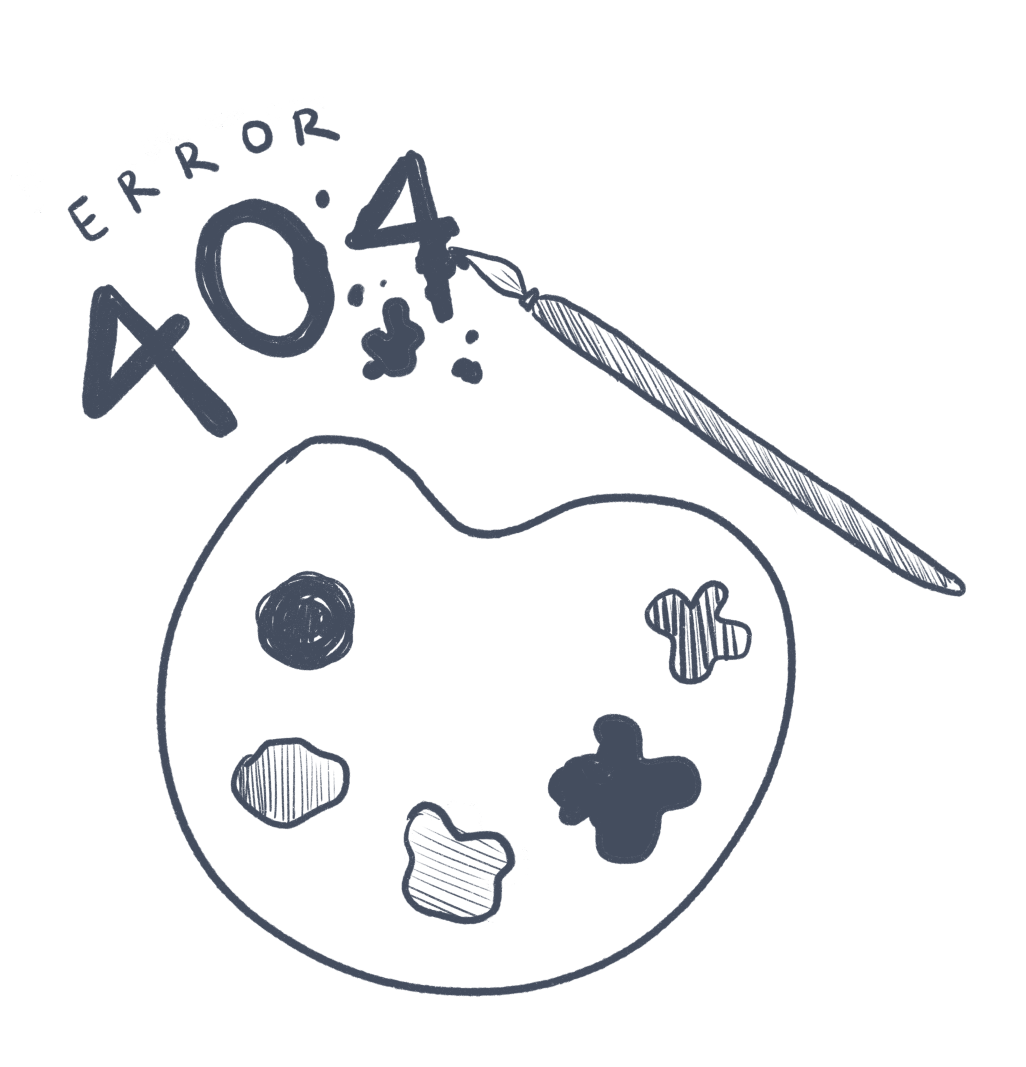
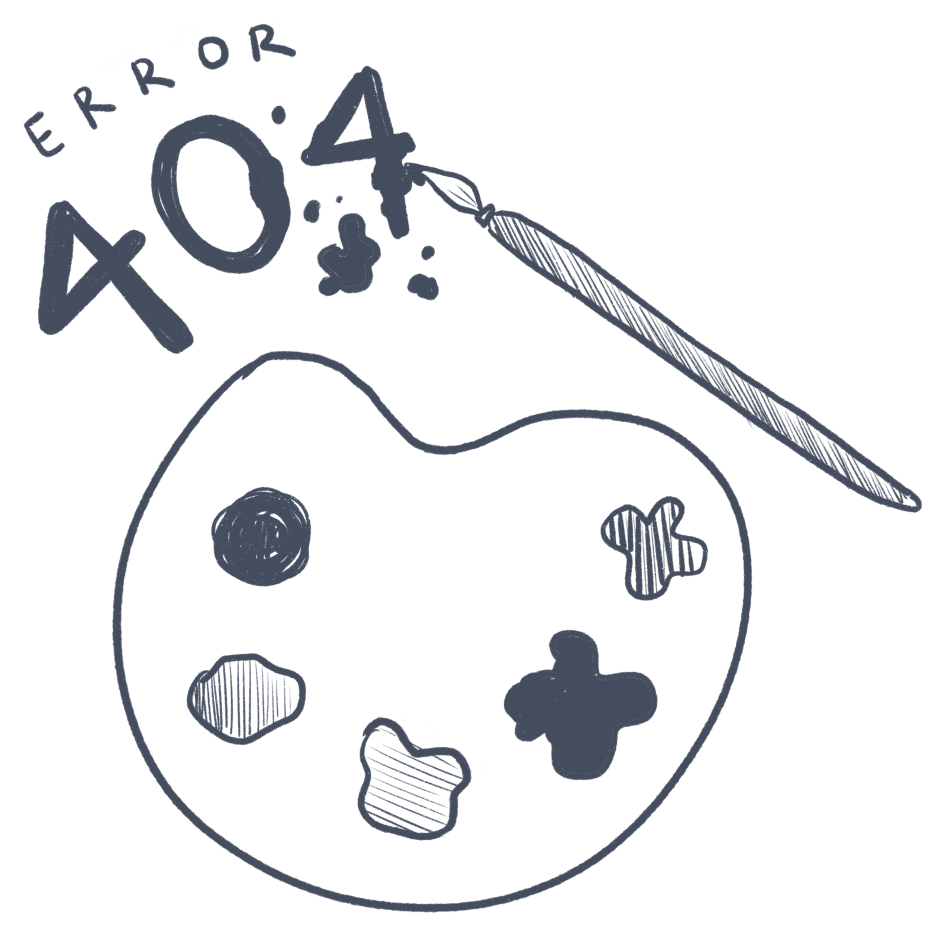
404: works when opened as a file (base href switches for file://); art matches Figma's frame render

diff --git a/404.html b/404.html
@@ -5,26 +5,29 @@
   <meta name="viewport" content="width=device-width, initial-scale=1">
   <title>Page not found — Sicily Manganaro</title>
   <meta name="robots" content="noindex">
+  <!-- GitHub Pages serves this file for any missing URL at any depth, so links resolve from the
+       site root. Opened straight from disk (file://) that root would be the hard drive, so use
+       this file's own folder instead. Must run before the stylesheet below. -->
+  <script>document.write('<base href="' + (location.protocol === 'file:' ? './' : '/') + '">')</script>
   <link rel="preconnect" href="https://fonts.googleapis.com">
   <link rel="preconnect" href="https://fonts.gstatic.com" crossorigin>
   <link rel="stylesheet" href="https://fonts.googleapis.com/css2?family=DM+Mono:wght@400;500&family=DM+Sans:opsz,wght@9..40,500;9..40,600&display=swap">
-  <!-- Root-relative paths: GitHub Pages serves this file for any missing URL, at any depth -->
-  <link rel="stylesheet" href="/css/style.css">
-  <script src="/js/main.js" defer></script>
+  <link rel="stylesheet" href="css/style.css">
+  <script src="js/main.js" defer></script>
   <script>document.documentElement.classList.add('js')</script>
 </head>
 <body>
   <!-- Figma 200:1842 -->
   <header class="site-header container">
     <div class="site-header__left">
-      <a class="site-header__logo" href="/" aria-label="Sicily Manganaro — home">
-        <img src="/assets/images/footer-logo.svg" width="41.9416" height="38.7929" alt="">
+      <a class="site-header__logo" href="index.html" aria-label="Sicily Manganaro — home">
+        <img src="assets/images/footer-logo.svg" width="41.9416" height="38.7929" alt="">
       </a>
       <nav class="site-nav" aria-label="Main">
         <!-- Placeholder links until these pages exist -->
         <a href="#">Contact</a>
         <a href="#">About</a>
-        <a href="/#work">Work</a>
+        <a href="index.html#work">Work</a>
       </nav>
     </div>
     <!-- Placeholder until the resume PDF is added -->
@@ -37,9 +40,9 @@
 
   <!-- Figma 205:2229 -->
   <main class="not-found container">
-    <img class="not-found__art" data-reveal src="/assets/images/404/page-not-found.png" width="1026" height="1067" alt="Hand-drawn paint palette and brush with the words Error 404">
+    <img class="not-found__art" data-reveal src="assets/images/404/page-not-found.png" width="946" height="936" alt="Hand-drawn paint palette and brush with the words Error 404">
     <h1 class="not-found__title" data-reveal>Oops! The page you are looking for doesn’t exist.</h1>
-    <a class="outline-button not-found__home" data-reveal href="/">GO TO HOME</a>
+    <a class="outline-button not-found__home" data-reveal href="index.html">GO TO HOME</a>
   </main>
 </body>
 </html>

diff --git a/css/style.css b/css/style.css
@@ -644,21 +644,22 @@ html:has(> .page-dark), .page-dark { overflow-x: clip; }
 }
 
 /* ---------- 404 (Figma 205:2229) ---------- */
+/* Art box matches the drawing as Figma's frame renders it: ink 515→964 × 150→594, plus 12px padding */
 .not-found {
   display: flex;
   flex-direction: column;
   align-items: center;
-  padding: 75px 0 237px; /* art top 171 − header 96; button bottom 787 → frame bottom 1024 */
+  padding: 42px 0 237px; /* art top 138 − header 96; button bottom 787 → frame bottom 1024 */
   text-align: center;
 }
 .not-found__art {
-  width: 512.6px;
+  width: 473px;
   max-width: 100%;
-  margin-left: 34px; /* art sits 17px right of centre in Figma (x 481 in the 1440 frame) */
-  /* Figma's own 2x render: its 85% opacity and #fbfbfb backdrop are baked in */
+  margin-left: 39px; /* drawing centre sits 19.5px right of the page centre */
+  /* cut from Figma's 2x frame render (its 85% opacity is baked in), background made transparent */
 }
 .not-found__title {
-  margin: -30.7px 0 0; /* text top 674 overlaps the art's transparent bottom (ends 704.7) */
+  margin: 68px 0 0; /* title top 674 − art bottom 606 */
   color: var(--ink);
   font-family: var(--font-sans);
   font-weight: 600;
